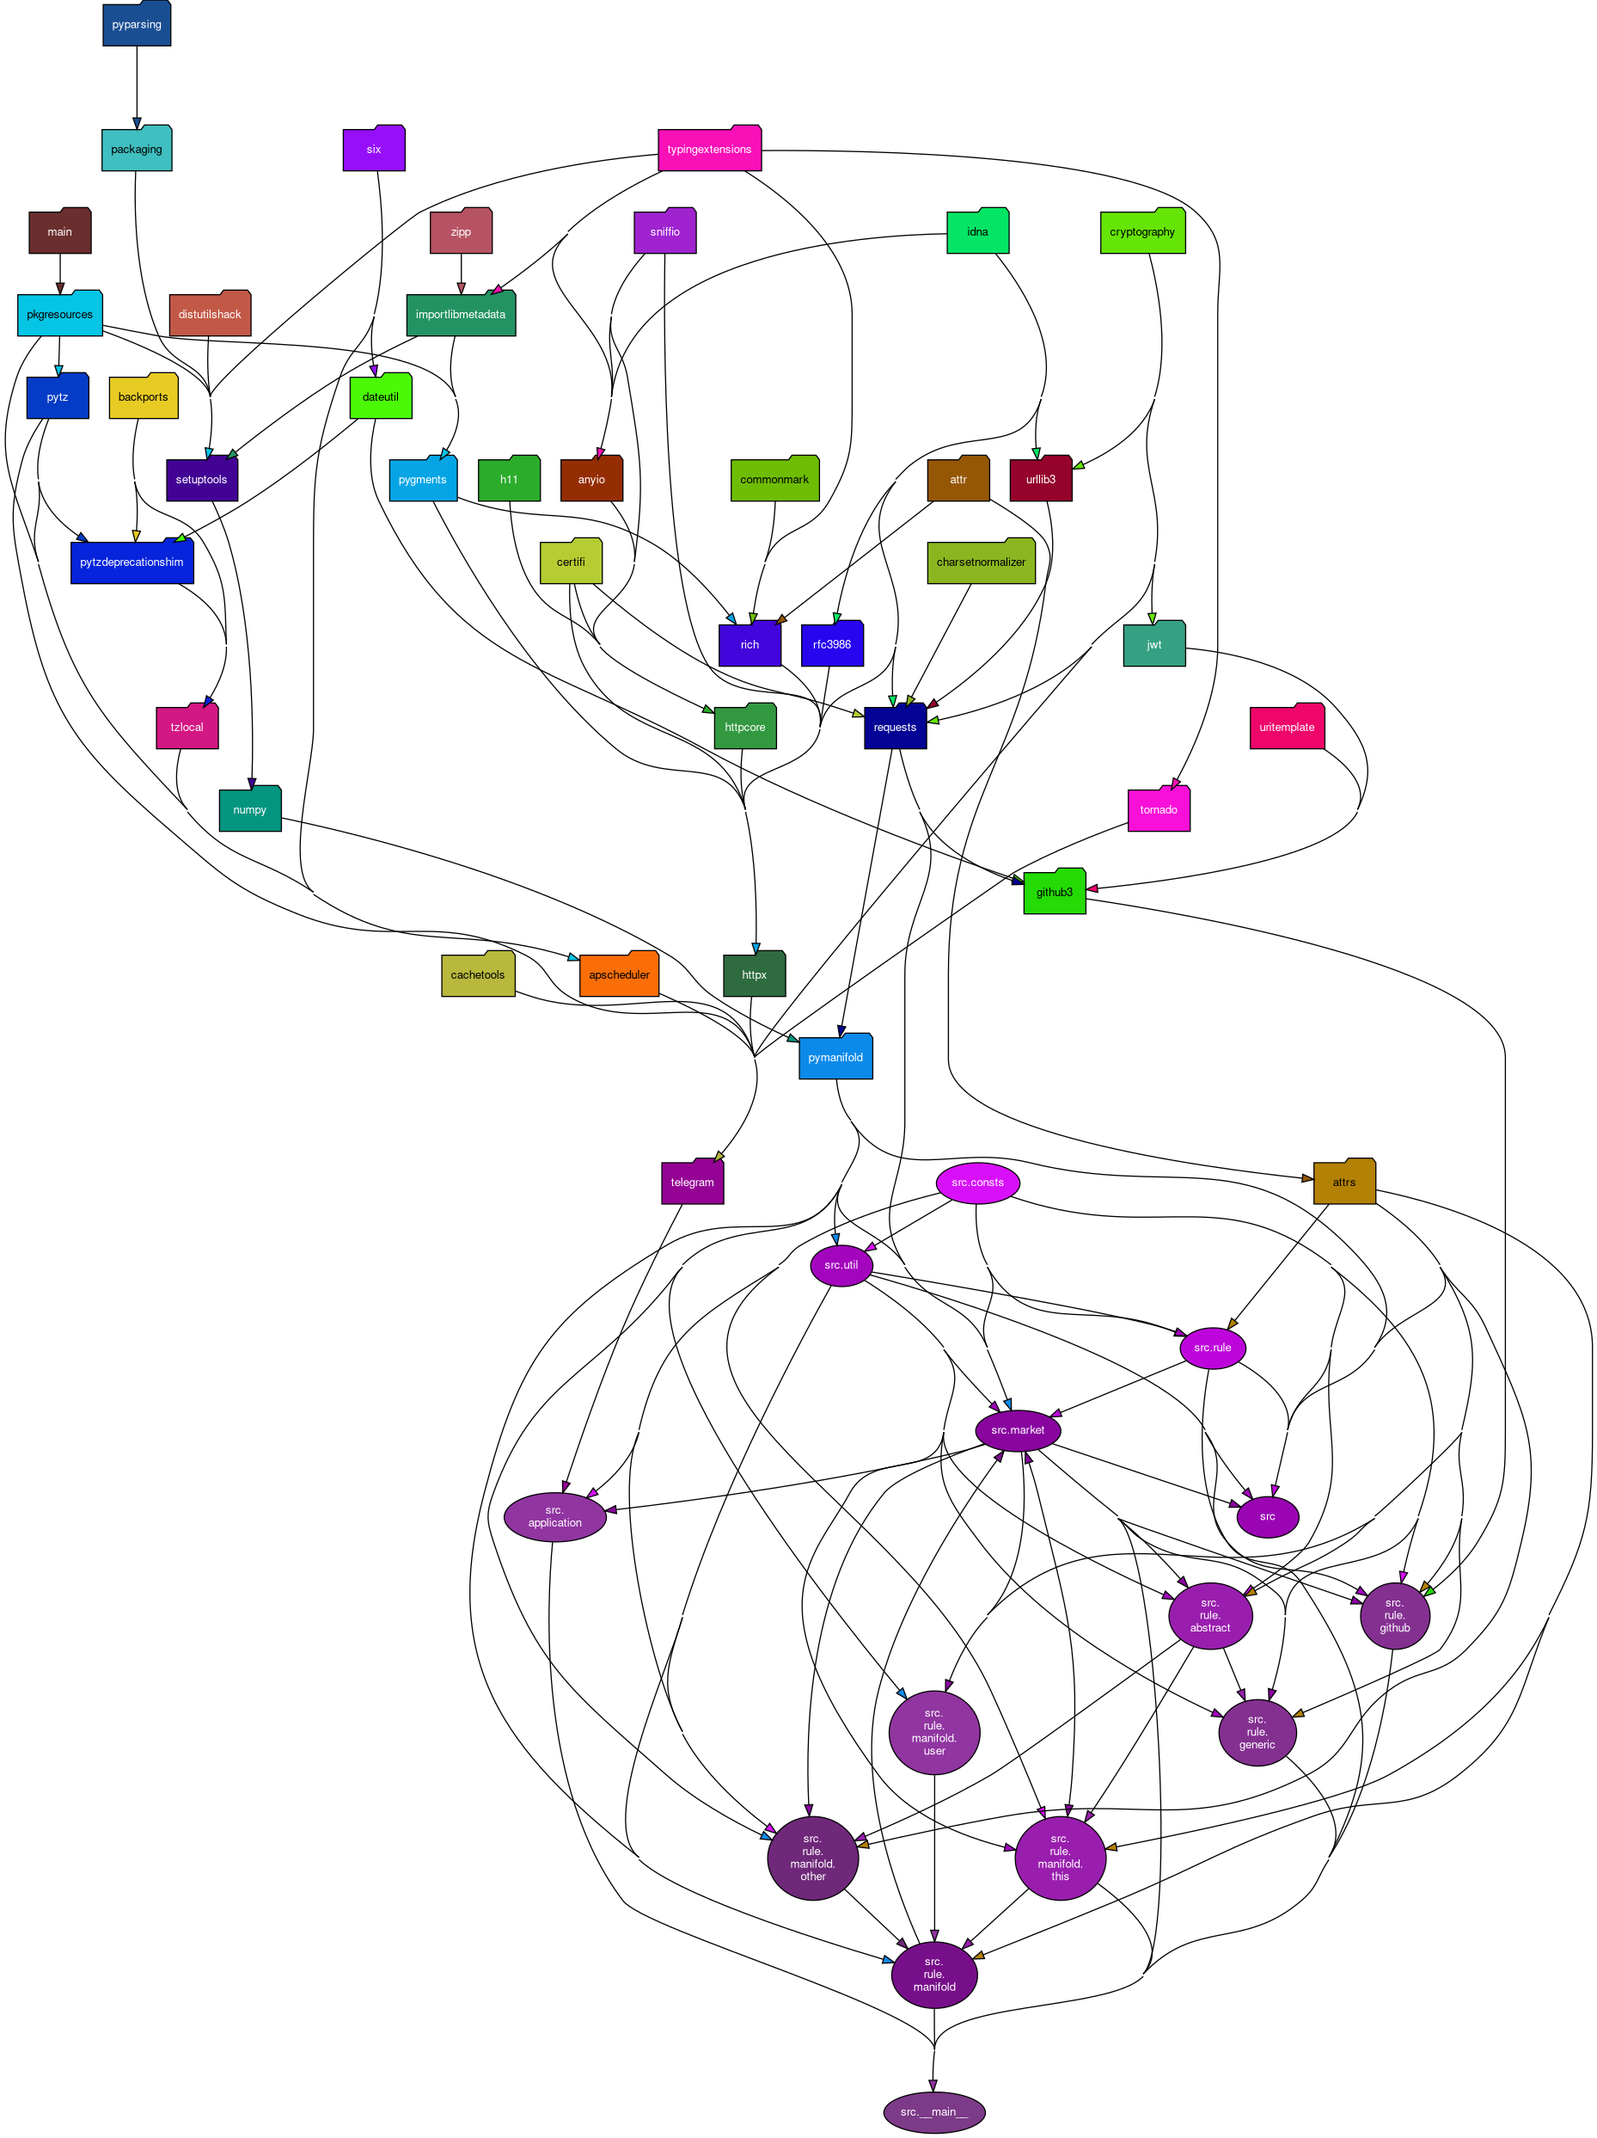
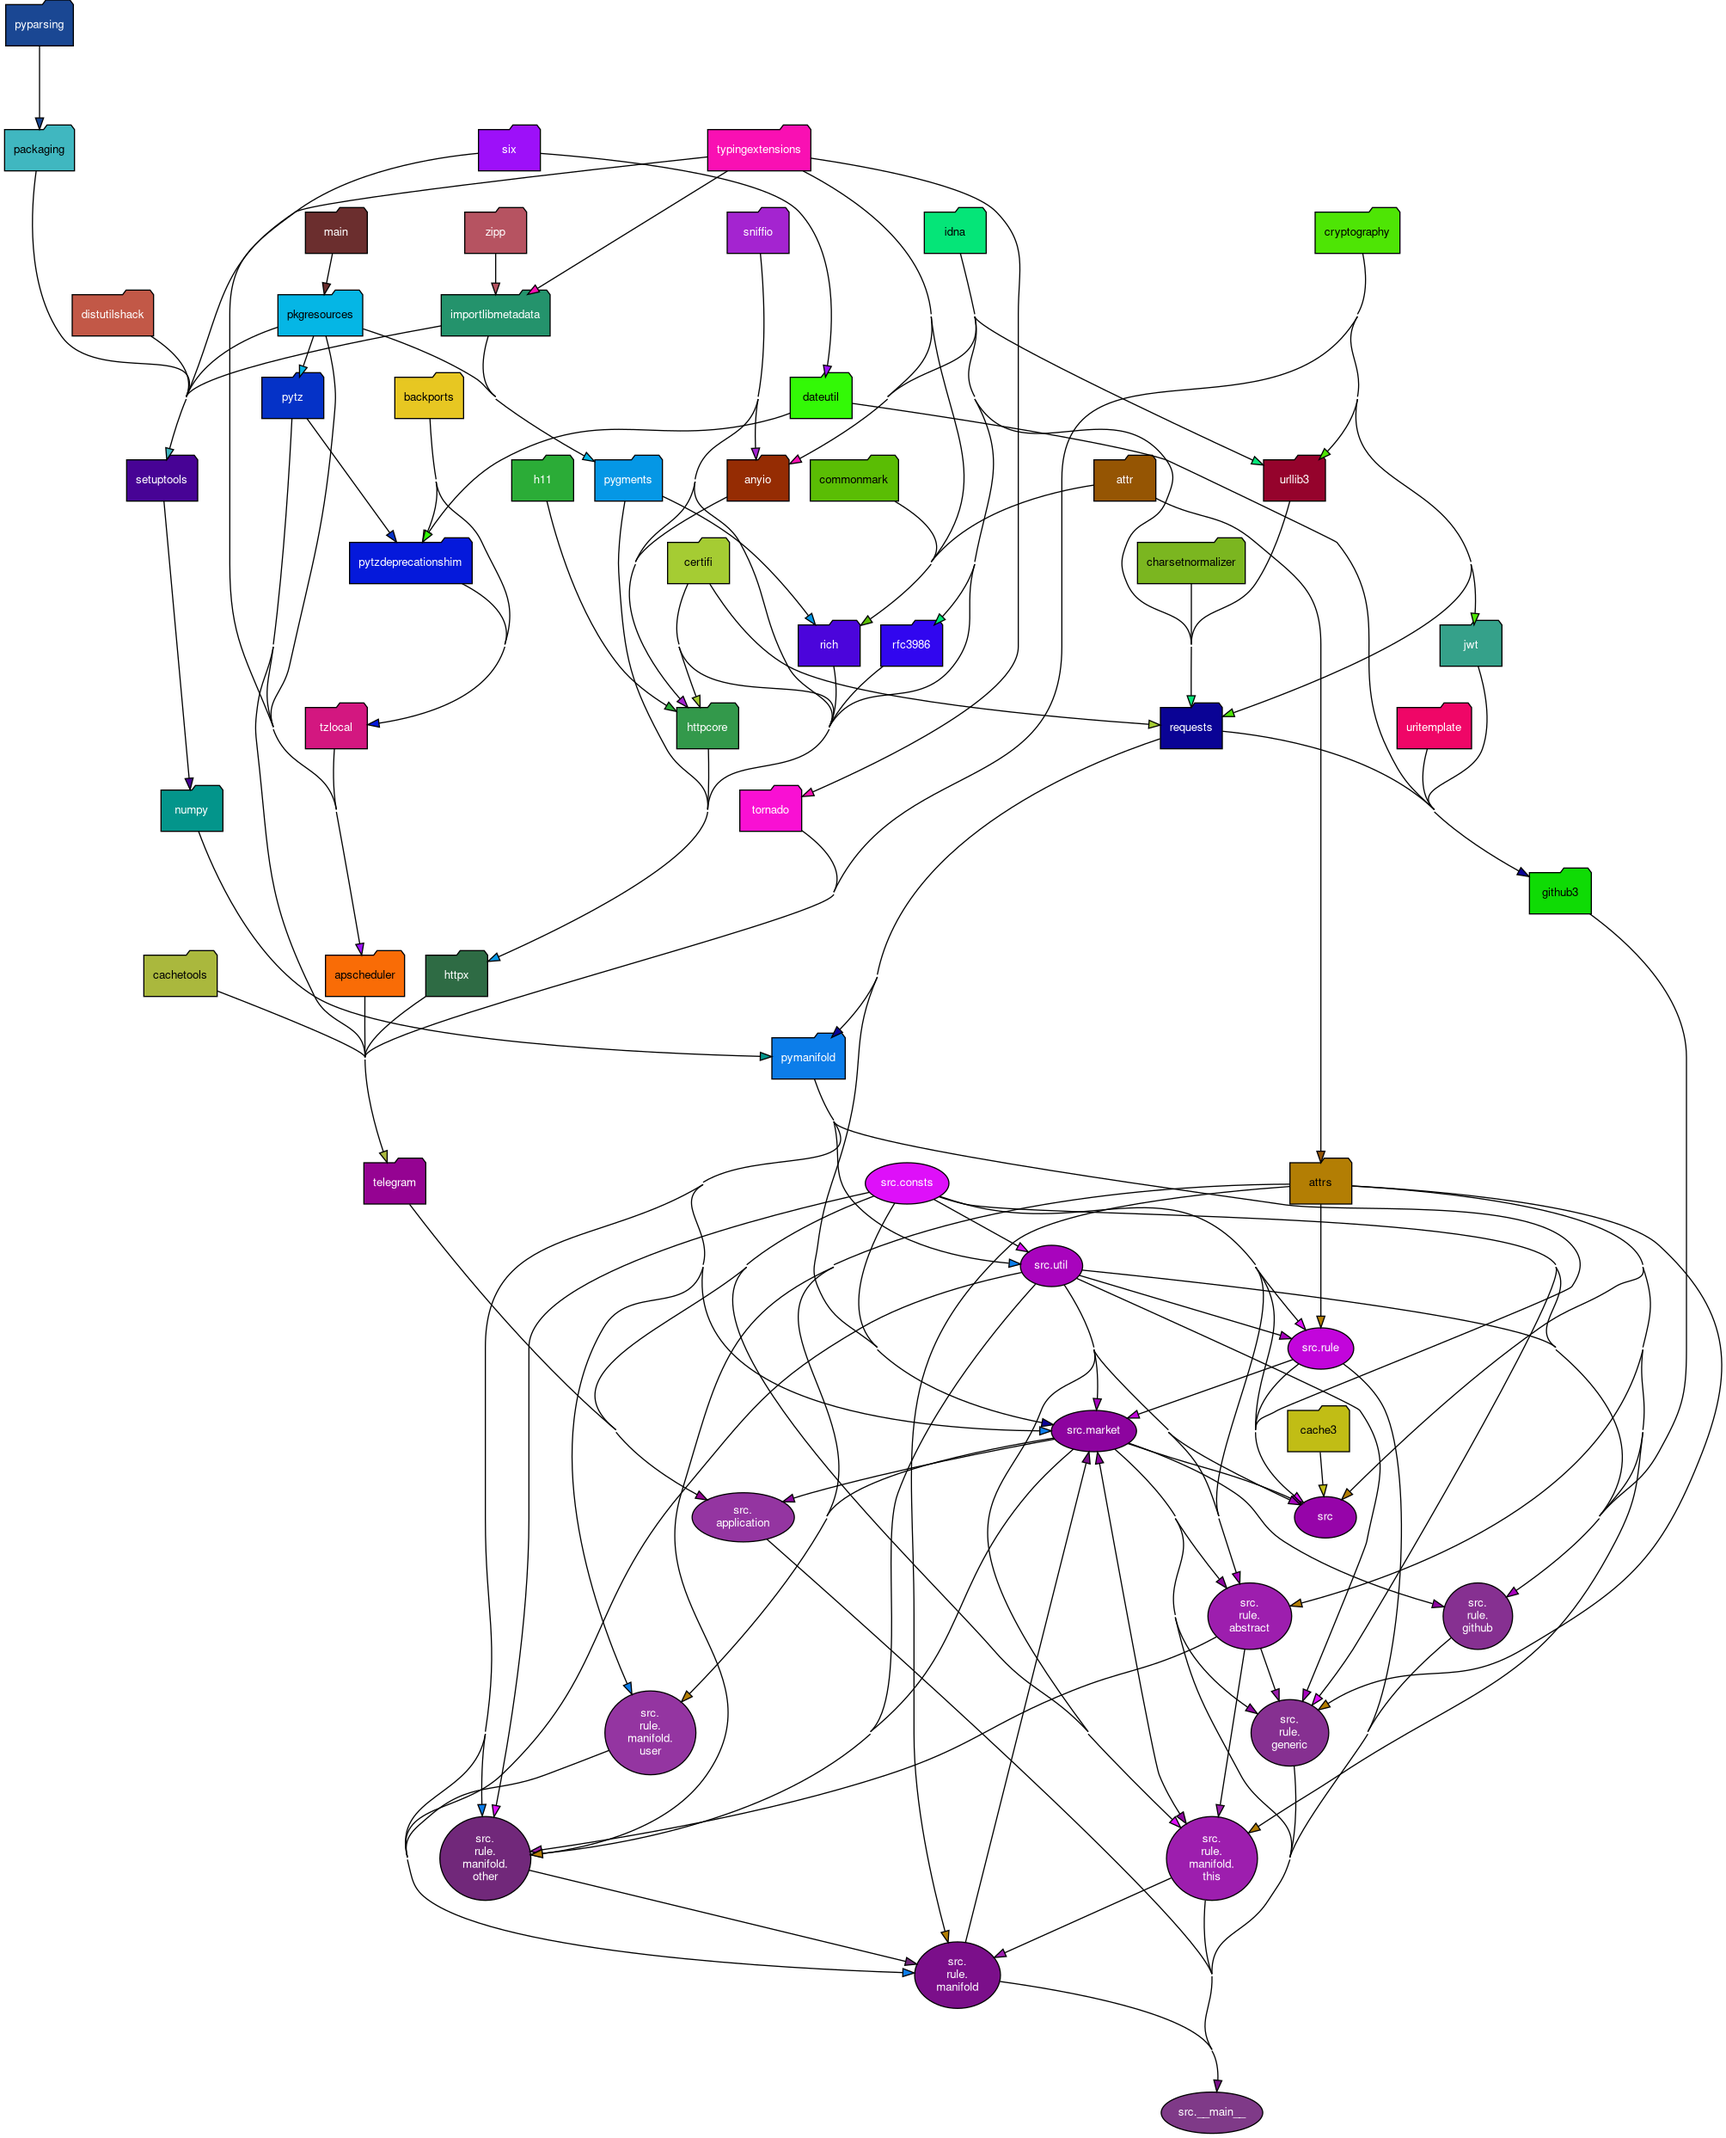
Add external cache mechanism; start using it

diff --git a/src/__init__.py b/src/__init__.py
@@ -10,6 +10,7 @@ more information on this.
 from __future__ import annotations
 
 from abc import ABC, abstractmethod
+from itertools import chain
 from logging import getLogger
 from os import getenv
 from pathlib import Path
@@ -20,6 +21,7 @@ from typing import TYPE_CHECKING, Generic, Iterable, Literal, Mapping, Sequence,
 from warnings import warn
 
 from attrs import define, field
+from cache3 import SafeCache
 
 _sys_path.append(str(Path(__file__).parent.joinpath("PyManifold")))
 
@@ -32,6 +34,8 @@ if TYPE_CHECKING:  # pragma: no cover
     from typing import Any
 
     from .consts import OutcomeType
+
+rule_value_cache = SafeCache(timeout=30)
 
 
 @define(slots=False)  # type: ignore
@@ -53,6 +57,13 @@ class Rule(ABC, Generic[T], DictDeserializable):
     ) -> T:  # pragma: no cover
         ...
 
+    def _gen_tag(self, market: Market) -> list[int]:
+        id_list = [id(self), id(market)]
+        if market is not None:
+            for r in chain(market.do_resolve_rules, market.resolve_to_rules):
+                id_list.append(id(r))
+        return id_list
+
     def value(
         self,
         market: Market,
@@ -60,7 +71,10 @@ class Rule(ABC, Generic[T], DictDeserializable):
         refresh: bool = False
     ) -> AnyResolution:
         """Return the resolution value of a market, appropriately formatted for its market type."""
-        ret = self._value(market)
+        tag = str(self._gen_tag(market))
+        if refresh or not rule_value_cache.has_key('value', tag=tag):  # noqa: W601
+            rule_value_cache.set('value', self._value(market), tag=tag)
+        ret = rule_value_cache.get('value', tag=tag)
         if (ret is None) or (ret == "CANCEL") or (format == 'NONE'):
             return cast(AnyResolution, ret)
         elif format in Outcome.BINARY_LIKE():
@@ -145,7 +159,7 @@ register_converter("Rule", loads)
 register_adapter(market.Market, dumps)
 register_converter("Market", loads)
 
-VERSION = "0.6.0.76"
+VERSION = "0.6.0.77"
 __version_info__ = tuple(int(x) for x in VERSION.split('.'))
 __all__ = [
     "__version_info__", "VERSION", "DoResolveRule", "ResolutionValueRule", "Rule", "Market", "get_client", "rule",

diff --git a/src/test/rule/manifold/test_this.py b/src/test/rule/manifold/test_this.py
@@ -22,7 +22,7 @@ if TYPE_CHECKING:  # pragma: no cover
 def test_CurentValueRule(mkt: Market, data_regression: DataRegressionFixture) -> None:
     with manifold_vcr.use_cassette(f'rule/manifold/this/test_CurrentValueRule/{quote(mkt.id)}.yaml'):
         obj = CurrentValueRule()
-        val = obj._value(mkt)
+        val = obj.value(mkt)
         data_regression.check({'answer': val})
 
 
@@ -30,7 +30,7 @@ def test_FibonacciValueRule(mkt: Market, data_regression: DataRegressionFixture)
     if mkt.market.outcomeType in Outcome.MC_LIKE():
         with manifold_vcr.use_cassette(f'rule/manifold/this/test_CurrentValueRule/{quote(mkt.id)}.yaml'):
             obj = FibonacciValueRule()
-            val = obj._value(mkt)
+            val = obj.value(mkt)
             data_regression.check({'answer': val})
     else:
         skip("Rule does not support this market type")
@@ -50,14 +50,14 @@ def test_PopularValueRule(mkt: Market, data_regression: DataRegressionFixture) -
             data_regression.check({'answers': answer_to_check})
         else:
             with raises(RuntimeError):
-                PopularValueRule(size=1)._value(mkt)
+                PopularValueRule(size=1).value(mkt)
 
 
 def test_RoundValueRule(mkt: Market, data_regression: DataRegressionFixture) -> None:
     if mkt.market.outcomeType in Outcome.BINARY_LIKE():
         with manifold_vcr.use_cassette(f'rule/manifold/this/test_CurrentValueRule/{quote(mkt.id)}.yaml'):
             obj = RoundValueRule()
-            val = obj._value(mkt)
+            val = obj.value(mkt)
             data_regression.check({'answer': val})
     else:
         skip("Rule does not support this market type")
@@ -66,5 +66,5 @@ def test_RoundValueRule(mkt: Market, data_regression: DataRegressionFixture) -> 
 def test_ThisMarketClosed(mkt: Market, data_regression: DataRegressionFixture) -> None:
     with manifold_vcr.use_cassette(f'rule/manifold/this/test_CurrentValueRule/{quote(mkt.id)}.yaml'):
         obj = ThisMarketClosed()
-        val = obj._value(mkt)
+        val = obj.value(mkt)
         data_regression.check({'answer': val})

diff --git a/src/test/rule/test_generic.py b/src/test/rule/test_generic.py
@@ -45,7 +45,7 @@ def test_binary_rule(binary_rule: str) -> None:
     for val1, val2 in list(product(cast(List[bool], [True, False, None]), repeat=2)):
         mock_obj1.resolve_value = val1
         mock_obj2.resolve_value = val2
-        assert bool(obj._value(cast(Market, None))) is bool(validator(val1, val2))
+        assert bool(obj.value(cast(Market, None), refresh=True)) is bool(validator(val1, val2))
 
 
 def test_negate_rule_value() -> None:
@@ -53,10 +53,10 @@ def test_negate_rule_value() -> None:
     obj = NegateRule(cast(Rule[BinaryResolution], mock_obj))
 
     mkt = cast(Market, None)
-    assert bool(obj._value(mkt)) is True
+    assert bool(obj.value(mkt, refresh=True)) is True
 
     mock_obj.resolve_value = True
-    assert bool(obj._value(mkt)) is False
+    assert bool(obj.value(mkt, refresh=True)) is False
 
 
 def test_at_time_rule_value() -> None:
@@ -71,4 +71,4 @@ def test_at_time_rule_value() -> None:
     )
     for idx, val in enumerate(values):
         obj = ResolveAtTime(val)
-        assert bool(obj._value(cast(Market, None))) is bool(idx % 2)
+        assert bool(obj.value(cast(Market, None))) is bool(idx % 2)

diff --git a/src/test/test_rule.py b/src/test/test_rule.py
@@ -39,7 +39,7 @@ def test_rule_formatting() -> None:
     market: Market = None  # type: ignore[assignment]
     for outcome, as_int in [(100, 100), ({3: 1}, 3), ([7], 7), ("25", 25), (None, None)]:
         rule = ResolveToValue(outcome)  # type: ignore
-        val: Any = rule.value(market, format=Outcome.BINARY)
+        val: Any = rule.value(market, format=Outcome.BINARY, refresh=True)
         assert isinstance(val, (int, float)) or as_int is None
         assert val == as_int
 
